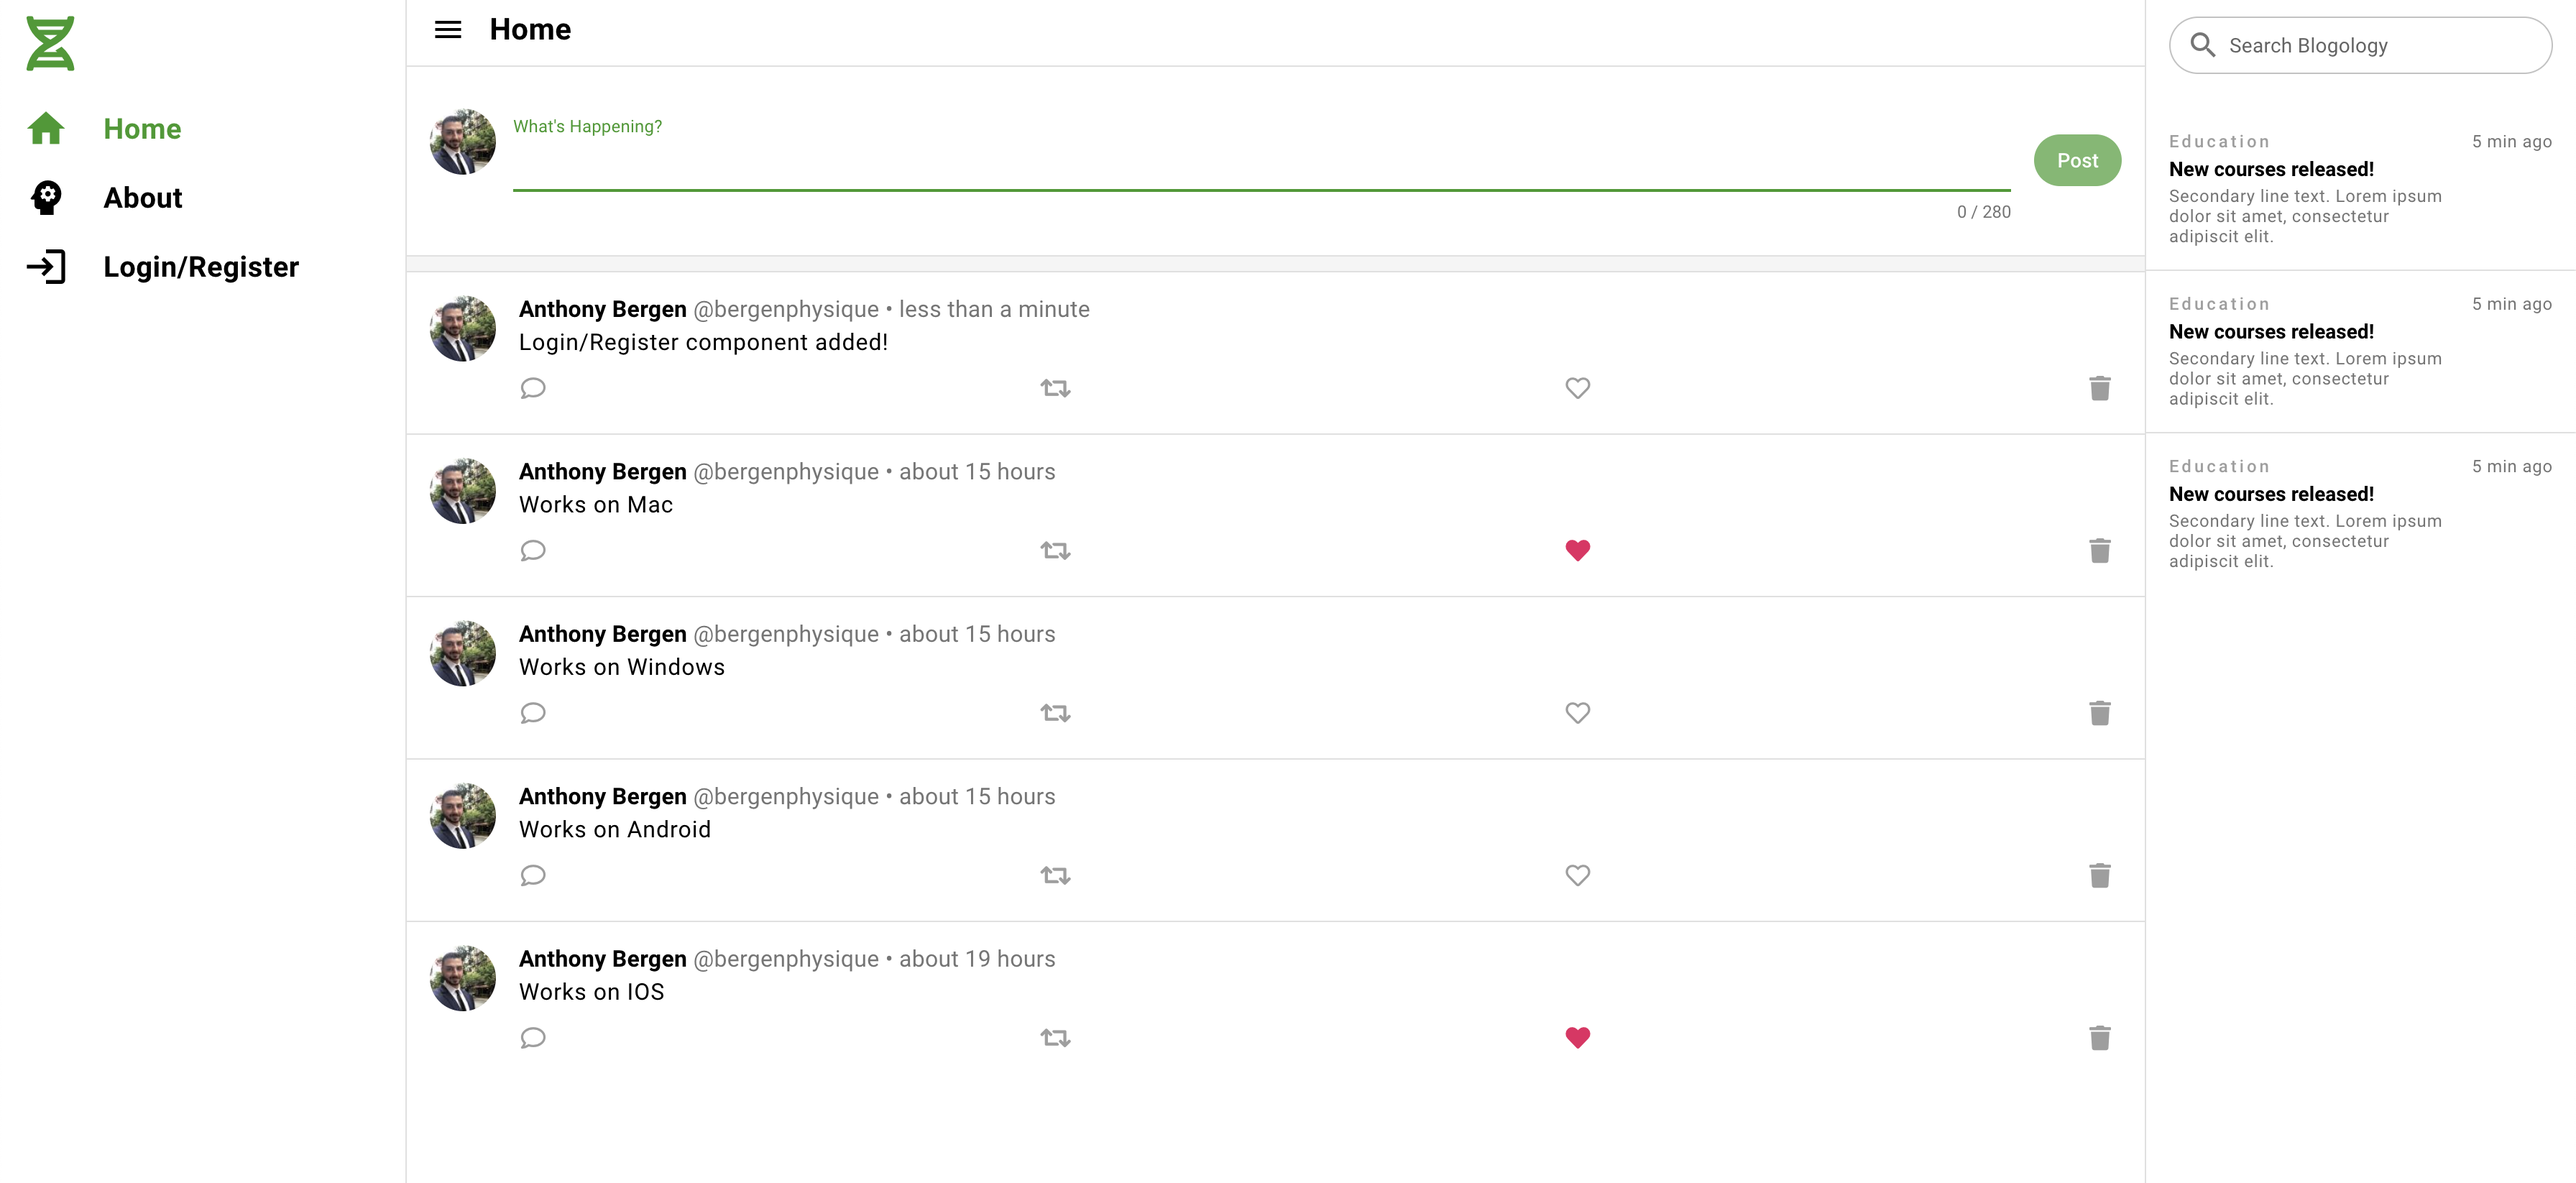
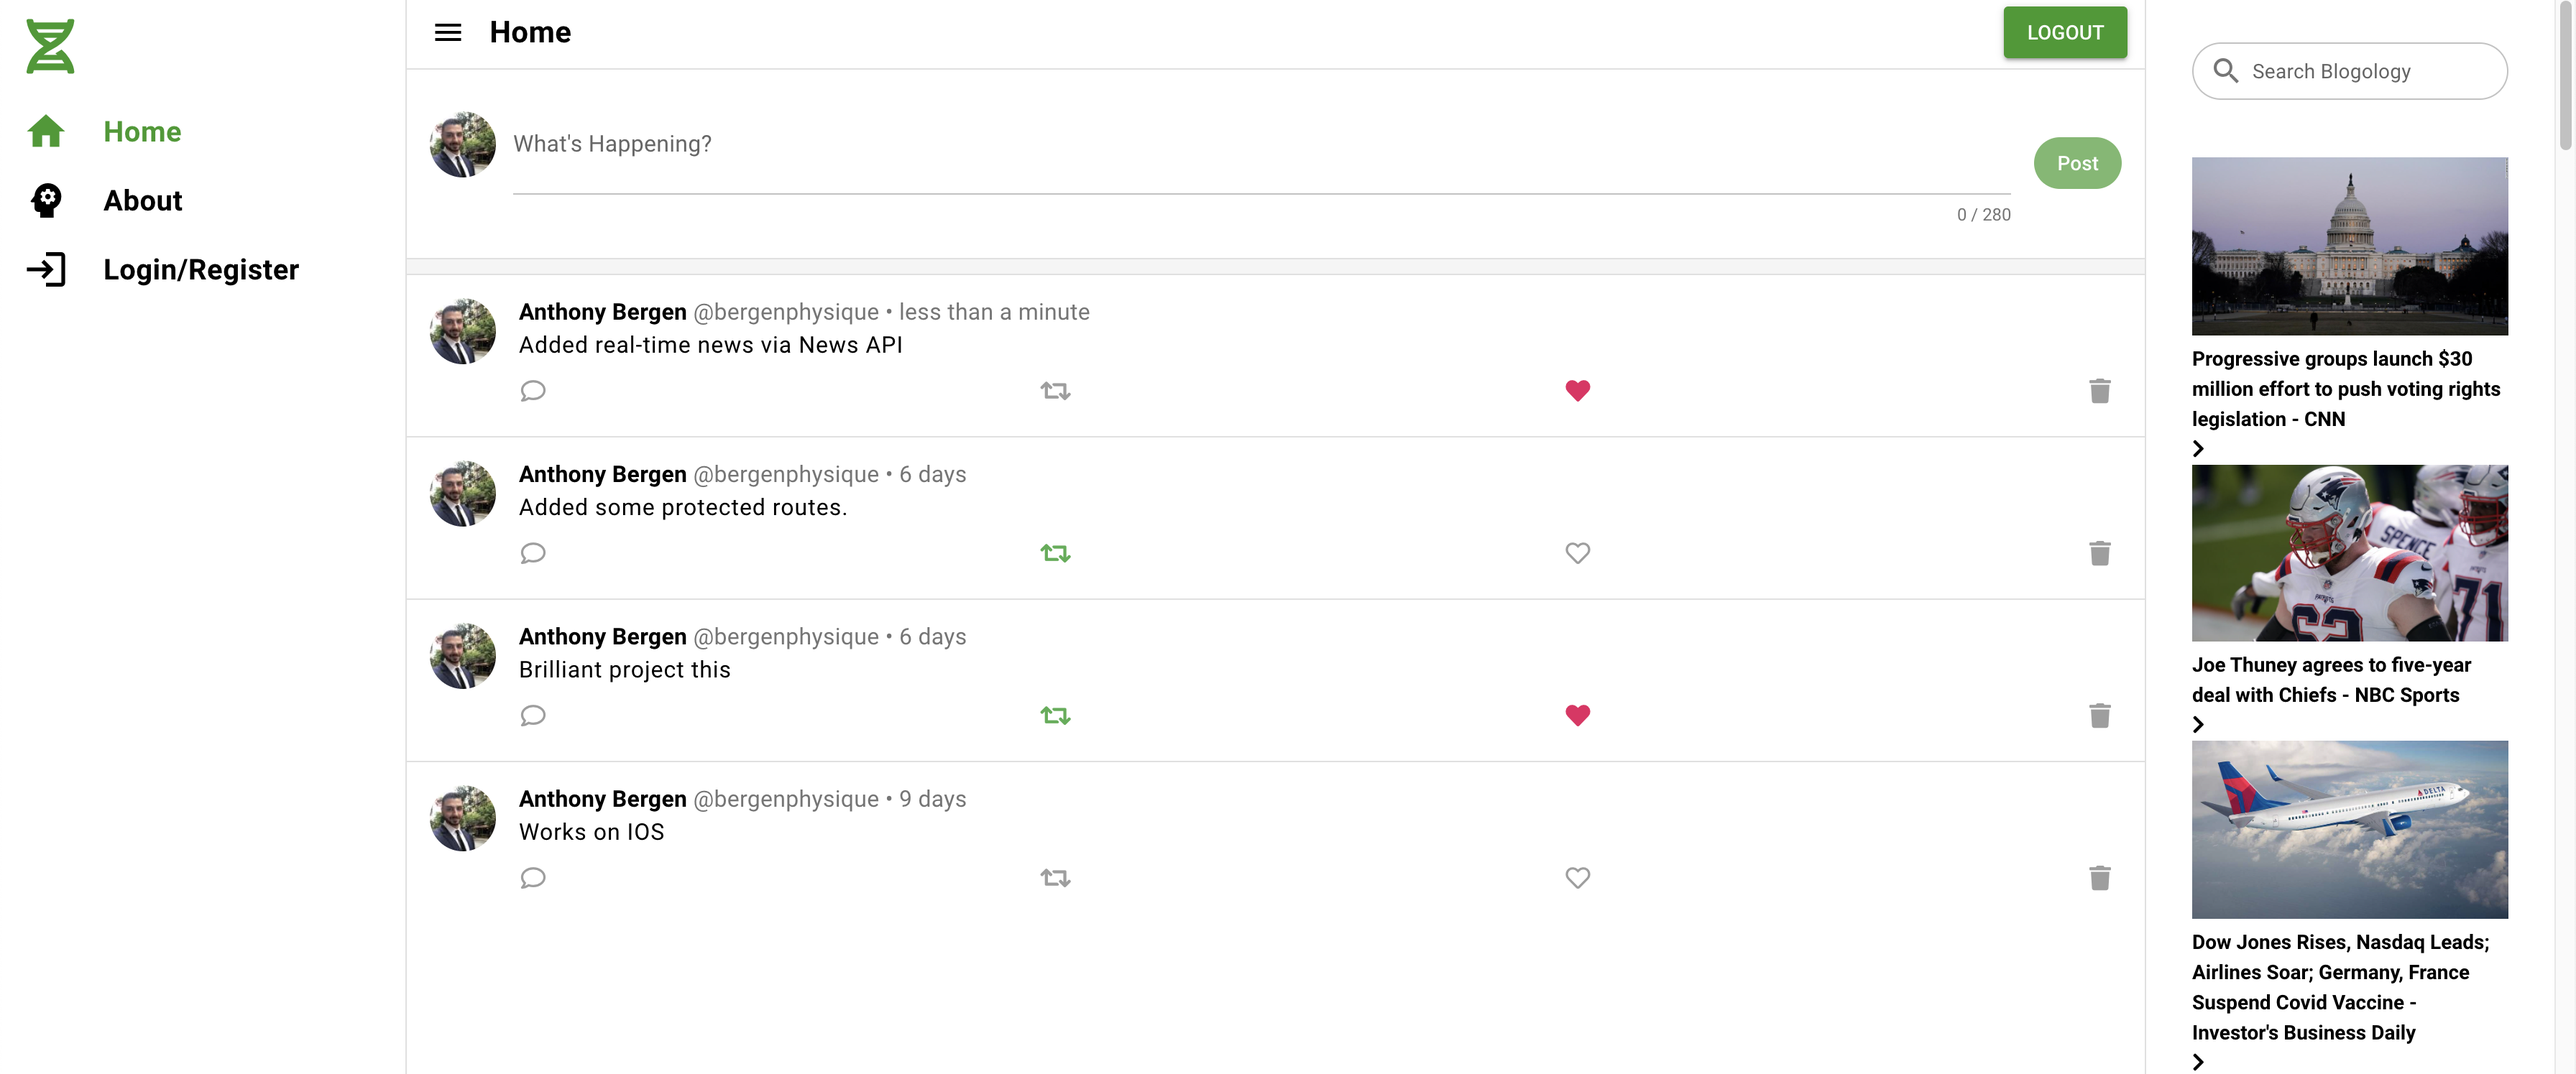
updated readme techonologies and demo image

diff --git a/README.md b/README.md
@@ -82,7 +82,7 @@ See [Configuring quasar.conf.js](https://quasar.dev/quasar-cli/quasar-conf-js).
 <li>Quasar, HTML, CSS, Sass</li>
 <li>Animate.css, date-fns, gravatar, Material Design, Font Awesome </li>
 <li>JavaScript, jQuery</li>
-<li>Firebase</li>
+<li>Firebase, News API</li>
 <li>Vue.js, Node.js, Express.js</li>
 <li>AWS Amplify, GitHub, Cordova, Electron</li>
 </ul>
